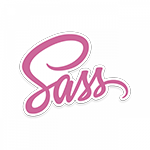
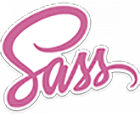
[fix]layout issues on landing page

diff --git a/Public/src/components/Landing.jsx b/Public/src/components/Landing.jsx
@@ -26,23 +26,23 @@ export default class Landing extends Component {
             <h1>Features</h1>
             <div className='features'>
               <div>
-                <Image responsive src ='../../assets/chore.png' />
+                <Image src ='../../assets/chore.png' />
                 <h4>Chores</h4>
               </div>
               <div>
-                <Image responsive src ='../../assets/budget.png' />
+                <Image src ='../../assets/budget.png' />
                 <h4>Budget</h4>
               </div>
               <div>
-                <Image responsive src ='../../assets/bulletin_board.png' />
+                <Image src ='../../assets/bulletin_board.png' />
                 <h4>Bulletin Board</h4>
               </div>
               <div>
-                <Image responsive src ='../../assets/chat.png' />
+                <Image src ='../../assets/chat.png' />
                 <h4>Chat</h4>
               </div>
               <div>
-                <Image responsive src ='../../assets/user_review.png' />
+                <Image src ='../../assets/user_review.png' />
                 <h4>Roommate Reviews</h4>
               </div>
             </div>
@@ -51,24 +51,32 @@ export default class Landing extends Component {
          <h1>Tech Stack</h1>
          <div className='tech'>
           <div>
-            <Image responsive src ='../../assets/react.svg' />
+            <Image src ='../../assets/react.svg' />
             <h4>ReactJS</h4>
           </div>
           <div>
-            <Image responsive src ='../../assets/redux.png' />
+            <Image src ='../../assets/redux.png' />
             <h4>Redux</h4>
           </div>
           <div>
-            <Image responsive src ='../../assets/sass.png' />
+            <Image src ='../../assets/sass.png' 
+            id='sass'
+            />
+            <h4>Sass</h4>
           </div>
           <div>
-            <Image responsive src ='../../assets/express.png' />
+            <Image src ='../../assets/nodejs.png' />
+            <h4>NodeJs</h4>
           </div>
           <div>
-            <Image responsive src ='../../assets/postgresql.png' />
+            <Image src ='../../assets/postgresql.png' 
+            id='postgre'
+            />
+            <h4>PostgreSQL</h4>
           </div>
           <div>
-            <Image responsive src ='../../assets/sequelize.png' />
+            <Image src ='../../assets/sequelize.png' />
+            <h4>Sequelize ORM</h4>
           </div>
          </div>
          </div>
@@ -76,54 +84,53 @@ export default class Landing extends Component {
          <h1>Developers</h1>
          <div className='developers'>
          <div>
-            <Image responsive src ='../../assets/lee_pic.jpeg' />
+            <Image src ='../../assets/lee_pic.jpeg' />
             <h4>Lee Mordell</h4>
             <div className='developer-links'>
               <a href='https://github.com/lmordell'>
-              <Image responsive src ='../../assets/github.png' />
+              <Image src ='../../assets/github.png' />
               </a>
               <a href='https://www.linkedin.com/in/leemordell'>
-              <Image responsive src ='../../assets/linkedin.png' />
+              <Image src ='../../assets/linkedin.png' />
               </a>
             </div>
           </div>
           <div>
-          <Image responsive
+          <Image
           className='img-offset' 
           src ='../../assets/viv_pic.jpeg' />
             <h4>Vivian Sze</h4>
             <div className='developer-links'>
               <a href='https://github.com/vvnsze'>
-              <Image responsive src ='../../assets/github.png' />
+              <Image src ='../../assets/github.png' />
               </a>
               <a href='https://www.linkedin.com/in/vivian-sze-755044125'>
-              <Image responsive src ='../../assets/linkedin.png' />
+              <Image src ='../../assets/linkedin.png' />
               </a>
             </div>
           </div>
           <div>
-          <Image responsive src ='../../assets/lucas_pic.png' />
+          <Image src ='../../assets/lucas_pic.png' />
             <h4>Lucas Fisher</h4>
             <div className='developer-links'>
               <a href='https://github.com/lsfisher'>
-              <Image responsive src ='../../assets/github.png' />
+              <Image src ='../../assets/github.png' />
               </a>
               <a href='https://www.linkedin.com/in/lucasscottfisher'>
-              <Image responsive src ='../../assets/linkedin.png' />
+              <Image src ='../../assets/linkedin.png' />
               </a>
             </div>
           </div>
           <div>
-          <Image responsive
-          className='img-offset' 
+          <Image 
           src ='../../assets/sean_pic.jpeg' />
             <h4>Sean Cox</h4>
             <div className='developer-links'>
               <a href='https://github.com/SeanCox'>
-              <Image responsive src ='../../assets/github.png' />
+              <Image src ='../../assets/github.png' />
               </a>
               <a href='https://www.linkedin.com/in/seancoxcode'>
-              <Image responsive src ='../../assets/linkedin.png' />
+              <Image src ='../../assets/linkedin.png' />
               </a>
             </div>
           </div>

diff --git a/Styles/layout/landing.scss b/Styles/layout/landing.scss
@@ -15,7 +15,7 @@
 	text-shadow: 1px 1px black;
 
     h1 {
-    font-size: 400%;
+    font-size: 500%;
 	text-align: center;
 	margin-top: 1%;
     }
@@ -36,6 +36,7 @@
 }
 
 #lt2 {
+	margin-top: 8%;
 	.features {
 		display: flex;
 		flex-direction: row;
@@ -44,7 +45,7 @@
 
 		div {
 			justify-content: center;	
-			margin: 1% 7%;
+			margin: 2% 7%;
 			text-align: center;
 			h4 {
 				font-size: 200%;
@@ -55,6 +56,7 @@
 
 
 #lt3 {
+	margin-top: 8%;
 	.tech {
 		display: flex;
 		flex-direction: row;
@@ -68,12 +70,20 @@
 			h4 {
 				font-size: 200%;
 			}
+		}
+
+		#postgre {
+			zoom: 87%;
+		}
+		#sass {
+			zoom: 81%;
 		} 
 	}
 }
 
 #lt4 {
 	height: 40em;
+	margin-top: 8%;
 	.developers {
 		display: flex;
 		flex-direction: row;
